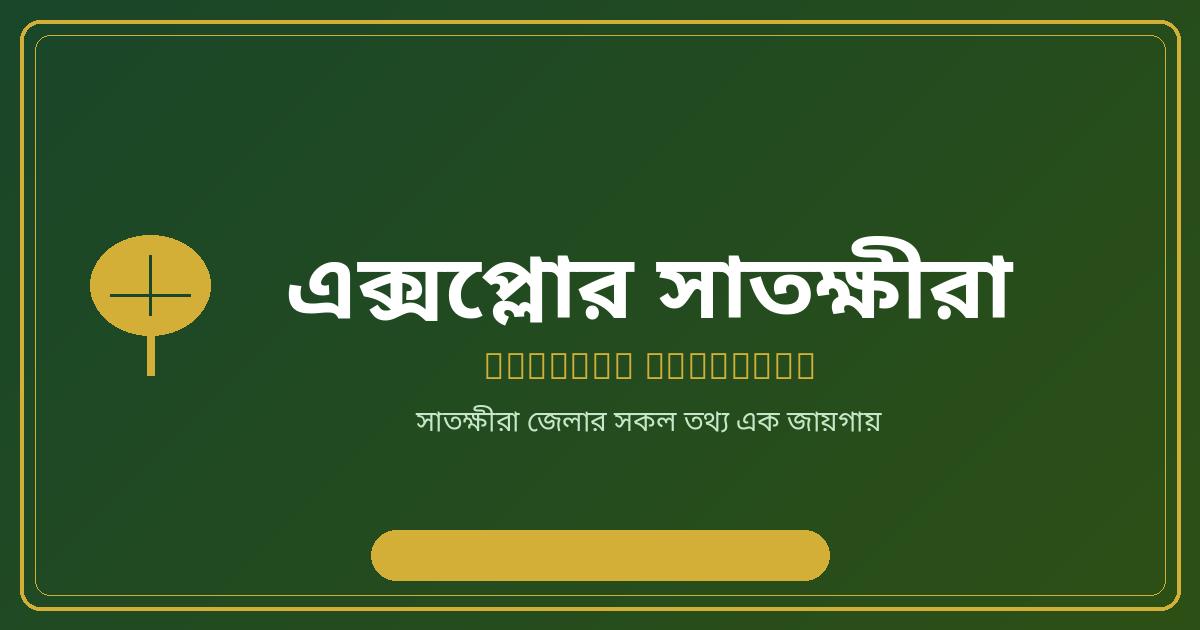
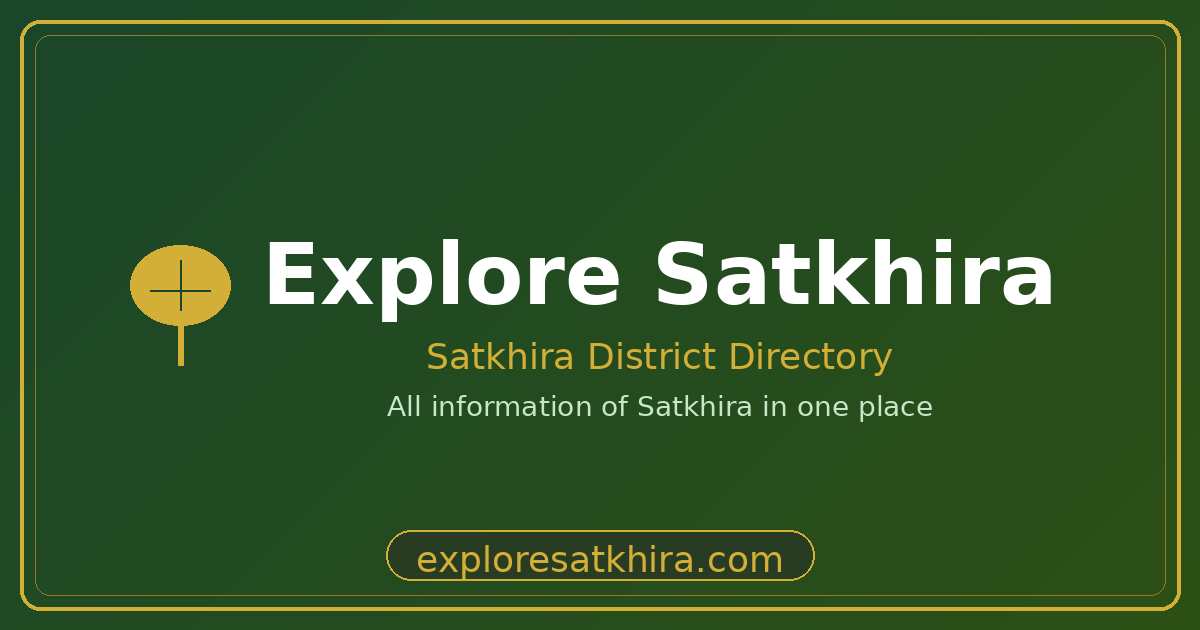
update

diff --git a/scripts/generate_og_image.py b/scripts/generate_og_image.py
@@ -2,6 +2,7 @@
 """
 Generate OG Image for Explore Satkhira
 1200x630 pixels (Facebook recommended)
+Using English text only for better compatibility
 """
 
 from PIL import Image, ImageDraw, ImageFont
@@ -39,51 +40,48 @@ def create_gradient_background(width, height, color1, color2):
 img = create_gradient_background(WIDTH, HEIGHT, PRIMARY_GREEN, SECONDARY_GREEN)
 draw = ImageDraw.Draw(img)
 
-# Load fonts
-font_path = "/usr/share/fonts/truetype/noto/NotoSansBengali-Regular.ttf"
-font_bold_path = "/usr/share/fonts/truetype/noto/NotoSansBengali-Bold.ttf"
-
-font_title = ImageFont.truetype(font_bold_path, 90)
-font_subtitle = ImageFont.truetype(font_path, 36)
-font_tagline = ImageFont.truetype(font_path, 28)
+# Load fonts - use DejaVuSans which supports English well
+font_title = ImageFont.truetype("/usr/share/fonts/truetype/dejavu/DejaVuSans-Bold.ttf", 85)
+font_subtitle = ImageFont.truetype("/usr/share/fonts/truetype/dejavu/DejaVuSans.ttf", 36)
+font_tagline = ImageFont.truetype("/usr/share/fonts/truetype/dejavu/DejaVuSans.ttf", 28)
 
 # Draw decorative border
 draw.rounded_rectangle((20, 20, WIDTH - 20, HEIGHT - 20), radius=20, outline=GOLD, width=4)
-draw.rounded_rectangle((35, 35, WIDTH - 35, HEIGHT - 35), radius=15, outline=(GOLD[0], GOLD[1], GOLD[2], 100), width=1)
+draw.rounded_rectangle((35, 35, WIDTH - 35, HEIGHT - 35), radius=15, outline=(150, 120, 40), width=1)
 
 # Draw leaf icon (simple representation)
-# Main circle for leaf
-leaf_cx, leaf_cy = 150, HEIGHT // 2
-draw.ellipse((leaf_cx - 60, leaf_cy - 80, leaf_cx + 60, leaf_cy + 20), fill=GOLD)
+leaf_cx, leaf_cy = 180, HEIGHT // 2
+# Main leaf shape
+draw.ellipse((leaf_cx - 50, leaf_cy - 70, leaf_cx + 50, leaf_cy + 10), fill=GOLD)
 # Stem
-draw.line([(leaf_cx, leaf_cy + 20), (leaf_cx, leaf_cy + 60)], fill=GOLD, width=8)
-# Leaf vein
-draw.line([(leaf_cx - 40, leaf_cy - 20), (leaf_cx + 40, leaf_cy - 20)], fill=PRIMARY_GREEN, width=3)
-draw.line([(leaf_cx, leaf_cy - 60), (leaf_cx, leaf_cy)], fill=PRIMARY_GREEN, width=3)
+draw.line([(leaf_cx, leaf_cy + 10), (leaf_cx, leaf_cy + 50)], fill=GOLD, width=6)
+# Leaf veins
+draw.line([(leaf_cx - 30, leaf_cy - 25), (leaf_cx + 30, leaf_cy - 25)], fill=PRIMARY_GREEN, width=2)
+draw.line([(leaf_cx, leaf_cy - 55), (leaf_cx, leaf_cy - 5)], fill=PRIMARY_GREEN, width=2)
 
-# Draw main title - এক্সপ্লোর সাতক্ষীরা
-title = "এক্সপ্লোর সাতক্ষীরা"
+# Draw main title - Explore Satkhira (English)
+title = "Explore Satkhira"
 bbox = draw.textbbox((0, 0), title, font=font_title)
 text_width = bbox[2] - bbox[0]
-draw.text(((WIDTH - text_width) // 2 + 50, HEIGHT // 2 - 80), title, fill=WHITE, font=font_title)
+draw.text(((WIDTH - text_width) // 2 + 60, HEIGHT // 2 - 90), title, fill=WHITE, font=font_title)
 
-# Draw English subtitle
-subtitle_en = "Explore Satkhira"
-bbox = draw.textbbox((0, 0), subtitle_en, font=font_subtitle)
+# Draw subtitle
+subtitle = "Satkhira District Directory"
+bbox = draw.textbbox((0, 0), subtitle, font=font_subtitle)
 text_width = bbox[2] - bbox[0]
-draw.text(((WIDTH - text_width) // 2 + 50, HEIGHT // 2 + 30), subtitle_en, fill=GOLD, font=font_subtitle)
+draw.text(((WIDTH - text_width) // 2 + 60, HEIGHT // 2 + 20), subtitle, fill=GOLD, font=font_subtitle)
 
 # Draw tagline
-tagline = "সাতক্ষীরা জেলার সকল তথ্য এক জায়গায়"
+tagline = "All information of Satkhira in one place"
 bbox = draw.textbbox((0, 0), tagline, font=font_tagline)
 text_width = bbox[2] - bbox[0]
-draw.text(((WIDTH - text_width) // 2 + 50, HEIGHT // 2 + 90), tagline, fill=LIGHT_GREEN, font=font_tagline)
+draw.text(((WIDTH - text_width) // 2 + 60, HEIGHT // 2 + 75), tagline, fill=LIGHT_GREEN, font=font_tagline)
 
 # Draw website URL at bottom
 url = "exploresatkhira.com"
 bbox = draw.textbbox((0, 0), url, font=font_subtitle)
 text_width = bbox[2] - bbox[0]
-draw.rounded_rectangle(((WIDTH - text_width) // 2 - 30, HEIGHT - 100, (WIDTH + text_width) // 2 + 30, HEIGHT - 50), radius=25, fill=(GOLD[0], GOLD[1], GOLD[2], 50), outline=GOLD, width=2)
+draw.rounded_rectangle(((WIDTH - text_width) // 2 - 30, HEIGHT - 100, (WIDTH + text_width) // 2 + 30, HEIGHT - 50), radius=25, fill=(40, 60, 35), outline=GOLD, width=2)
 draw.text(((WIDTH - text_width) // 2, HEIGHT - 92), url, fill=GOLD, font=font_subtitle)
 
 # Save image
